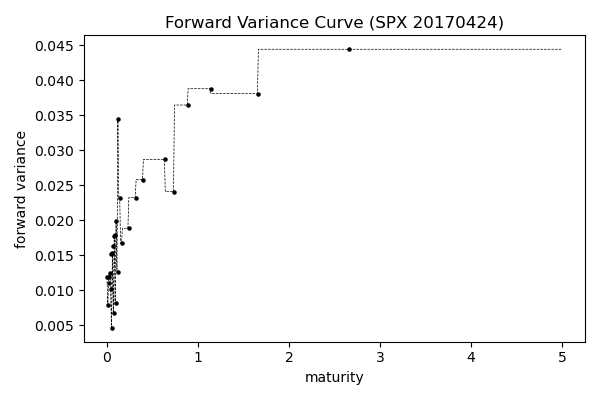
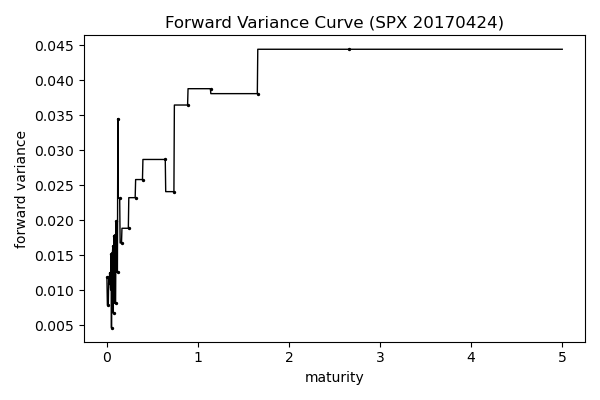
fwd var curve smooth

Changed region(s): [[0.3, 0.12, 0.93, 0.27], [0.15, 0.33, 0.24, 0.81], [0.24, 0.27, 0.3, 0.48]]

diff --git a/python-volcal/main.py b/python-volcal/main.py
@@ -141,13 +141,14 @@ def test_CalcFwdVarCurve():
     Texp = df["Texp"].unique()
     curveVS = CalcSwapCurve(df,VarianceSwapFormula)
     curveFV = CalcFwdVarCurve(curveVS)
+    # curveFV = CalcFwdVarCurve(curveVS,eps=0.003)
     fvMid = curveFV["mid"]
     fvFunc = FwdVarCurveFunc(Texp,fvMid)
-    T = np.linspace(0,5,500)
+    T = np.linspace(0,5,1000)
     print(curveFV)
     fig = plt.figure(figsize=(6,4))
     plt.scatter(Texp, fvMid, c='k', s=5)
-    plt.plot(T, [fvFunc(t) for t in T], 'k--', lw=0.5)
+    plt.plot(T, fvFunc(T), 'k', lw=1)
     plt.title("Forward Variance Curve (SPX 20170424)")
     plt.xlabel("maturity")
     plt.ylabel("forward variance")
@@ -163,11 +164,11 @@ def test_CalcFwdVarCurve2005():
     curveFV = CalcFwdVarCurve(curveVS)
     fvMid = curveFV["mid"]
     fvFunc = FwdVarCurveFunc(Texp,fvMid,"spline")
-    T = np.linspace(0,2,500)
+    T = np.linspace(0,2,1000)
     print(curveFV)
     fig = plt.figure(figsize=(6,4))
     plt.scatter(Texp, fvMid, c='k', s=5)
-    plt.plot(T, [fvFunc(t) for t in T], 'k--', lw=0.5)
+    plt.plot(T, fvFunc(T), 'k', lw=1)
     plt.title("Forward Variance Curve (SPX 20050509)")
     plt.xlabel("maturity")
     plt.ylabel("forward variance")
@@ -1515,7 +1516,7 @@ if __name__ == '__main__':
     # test_VarianceSwapFormula()
     # test_CalcSwapCurve()
     # test_LevSwapCurve()
-    # test_CalcFwdVarCurve()
+    test_CalcFwdVarCurve()
     # test_CalcFwdVarCurve2005()
     #### Heston ####
     # test_HestonSmile()
@@ -1581,8 +1582,8 @@ if __name__ == '__main__':
     # test_ImpVolFromRHPMIvCalibration()
     # test_CalibrateRHPMMModelToImpVol()
     # test_ImpVolFromRHPMMIvCalibration()
-    test_CalibrateRHPModelToImpVol()
-    test_ImpVolFromRHPIvCalibration()
+    # test_CalibrateRHPModelToImpVol()
+    # test_ImpVolFromRHPIvCalibration()
     #### Speed Test ####
     # test_CalibrationSpeed()
     # test_CharFuncSpeed()

diff --git a/python-volcal/pricer.py b/python-volcal/pricer.py
@@ -1527,11 +1527,25 @@ def CalcSwapCurve(df, swapFormula):
     curve = curve[["Texp","bid","mid","ask"]]
     return curve
 
-def CalcFwdVarCurve(curveVS):
+def CalcFwdVarCurve(curveVS, eps=0):
     # Calculate forward variance curve based on VS curve
+    # price = integrated fwd var (vswap price w/o time avg)
     Texp = curveVS["Texp"]
     diffTexp = curveVS["Texp"].diff()
     price = curveVS[["bid","mid","ask"]].multiply(Texp,axis=0)
+    if eps > 0: # smooth VS prices
+        def objective(Texp, price):
+            def loss(err):
+                adjPrice = price+2*np.sqrt(price*Texp)*err
+                curve = np.concatenate([[adjPrice[0]/Texp[0]],np.diff(adjPrice)/np.diff(Texp)])
+                curveDiff = np.diff(curve)/np.diff(Texp)
+                return sum((adjPrice-price)**2)+sum(curveDiff**2)
+            return loss
+        n = len(Texp)
+        for vs in ["bid","mid","ask"]:
+            opt = minimize(objective(Texp,price[vs]), x0=np.repeat(0,n), bounds=[(-eps,eps)]*n)
+            price[vs] += 2*np.sqrt(price[vs]*Texp)*opt.x
+            # print(opt.x)
     curve = price.diff()
     curve = curve.div(diffTexp,axis=0)
     curve.iloc[0] = price.iloc[0]/Texp.iloc[0]
